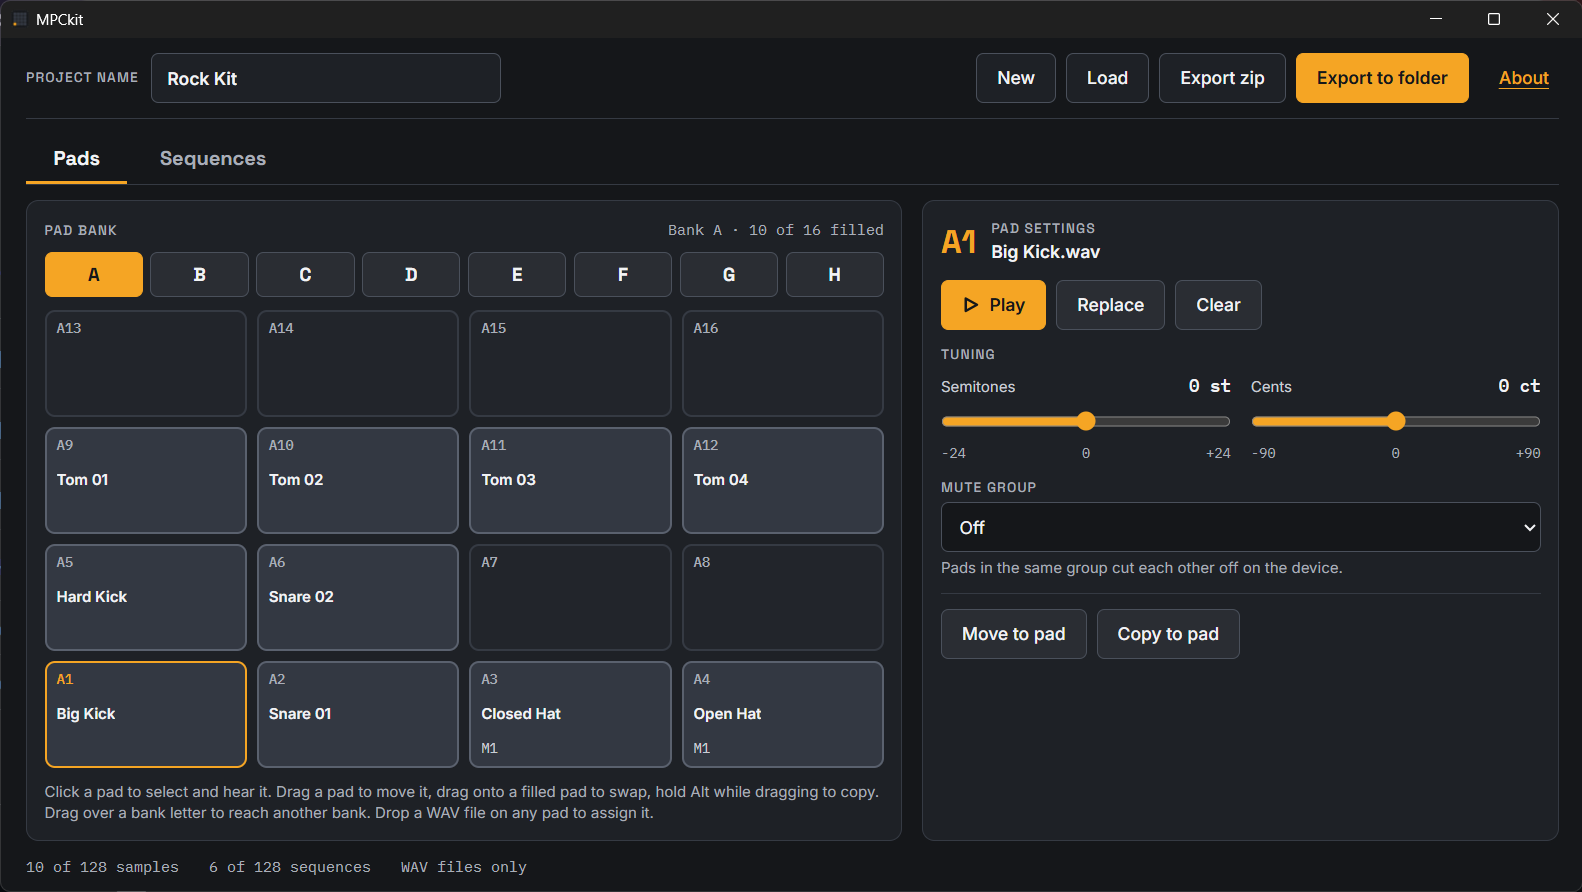
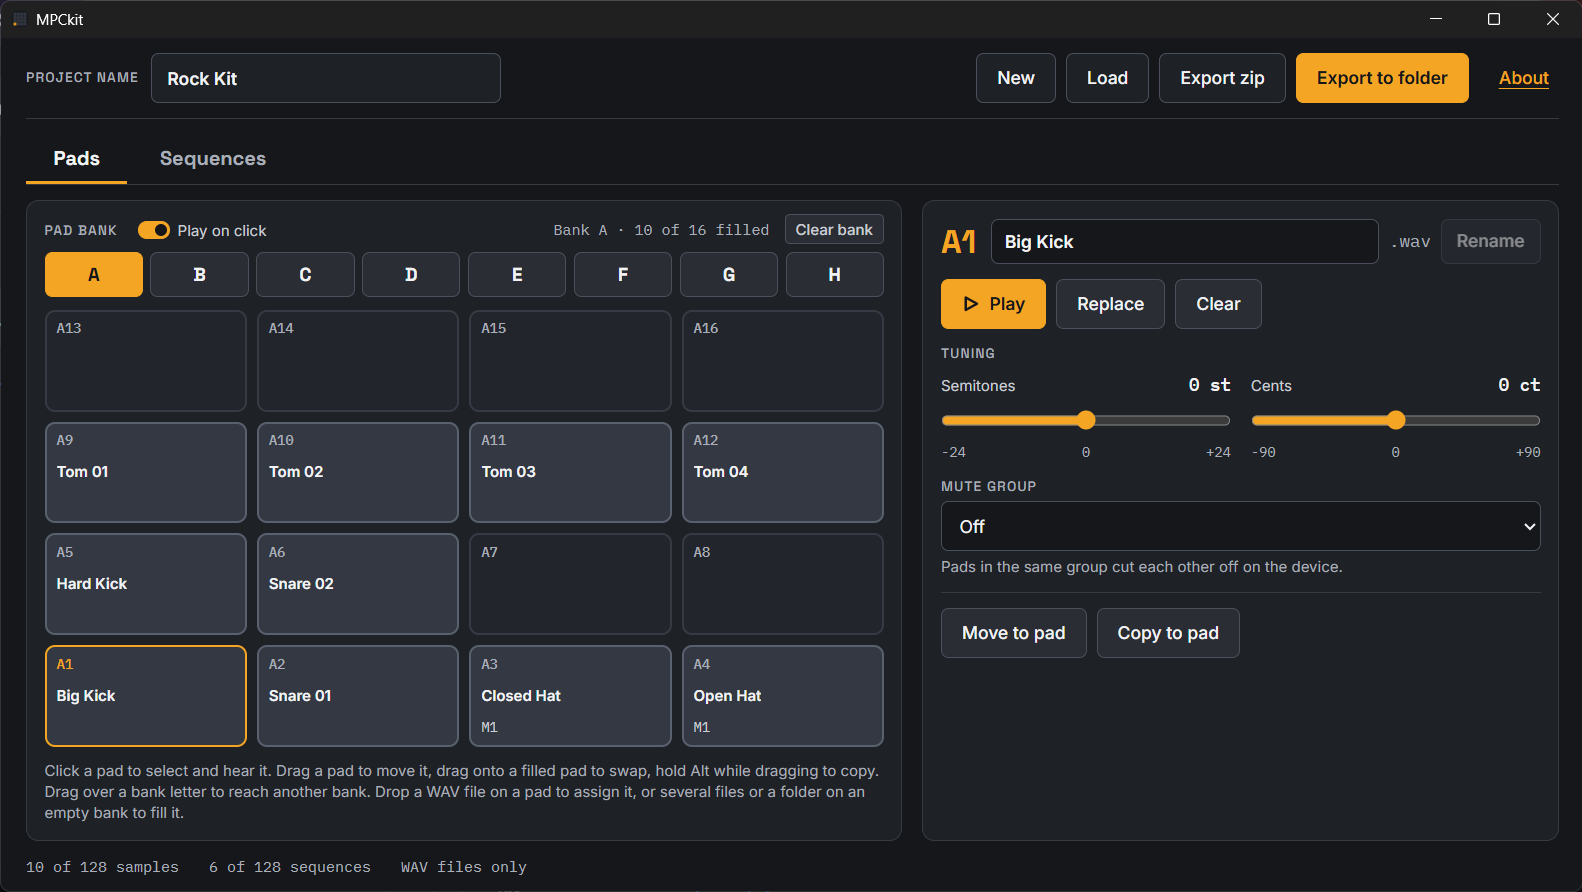
Use 0.5.6 screenshots in the README (#21)

diff --git a/README.md b/README.md
@@ -18,7 +18,7 @@ Drop WAV files onto pads, tune them, set mute groups and sequences, then export 
 
 > **Beta.** MPCkit is in testing (version 0.5). Expect a few rough edges, and keep a copy of any project you care about before opening it in MPCkit.
 
-![The MPCkit window on the Pads tab: bank A with ten drum samples, and the settings for pad A1 on the right](docs/images/pads.png)
+![The MPCkit window on the Pads tab: bank A with ten drum samples, the Play on click switch and Clear bank above them, and the settings for pad A1 on the right, starting with its sample name, ready to rename](docs/images/pads.png)
 
 ## Features
 
@@ -29,7 +29,7 @@ Drop WAV files onto pads, tune them, set mute groups and sequences, then export 
 - **Open and export.** Open a project saved on the device, change it, and export it to a folder (for example straight onto the card) or to a zip.
 - **Small, native and offline.** One small app for Windows, macOS and Linux. No installer, no account and no tracking. MPCkit never connects to the internet: your samples and projects stay on your computer.
 
-![The MPCkit window on the Sequences tab: six sequences in bank A, with the name, BPM and length of the selected one on the right](docs/images/sequences.png)
+![The MPCkit window on the Sequences tab: six sequences in bank A with Clear bank above them, and the name, BPM and length of the selected one on the right](docs/images/sequences.png)
 
 Not in MPCkit yet: trimming samples with a waveform, level and pan, loop and trigger modes, effects, and editing recorded notes.
 
